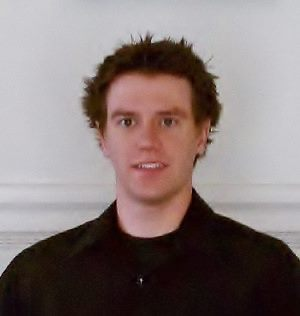
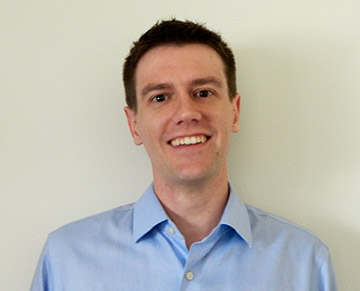
Changed picture and updated information

diff --git a/index.html b/index.html
@@ -71,7 +71,8 @@
           <div class="panel radius">
             <h3>About Me</h3>
 
-            <p>I am a fifth year graduate student at Columbia University in the <a href="http://www.apam.columbia.edu/">Applied Physics and Applied Mathematics Department</a>.  I study plasma physics related to nuclear fusion energy on the <a href="http://sites.apam.columbia.edu/HBT-EP/">High Beta Tokamak - Extended Pulse (HBT-EP)</a>.  For more information about HBT-EP and my related projects please visit the <a href="research.html">research page</a>.</p>
+            <p>I am currently a data scientist at <a href="http://www.capitalonelabs.com/">Capital One Labs</a> and I love my job.  Who knew that innovations in consumer finance could be so interesting?</p>
+            <p>I was previously a graduate student at Columbia University in the <a href="http://www.apam.columbia.edu/">Applied Physics and Applied Mathematics Department</a>.  I studied plasma physics related to nuclear fusion energy on the <a href="http://sites.apam.columbia.edu/HBT-EP/">High Beta Tokamak - Extended Pulse (HBT-EP)</a>.  For more information about HBT-EP and my related projects please visit the <a href="research.html">research page</a>.</p>
             <p>I also have a growing interest in data analysis and visualization, which stems from my research experience and is evolving through <a href="projects.html">extracurricular projects</a>.</p>
             <p>For an overview of my experience and projects please check out my <a href="resume_stoafer.pdf">resume</a>.</p>
 
@@ -84,7 +85,7 @@
             <h4>Education</h4>
             <p>
               <ul>
-                <li> Ph.D. candidate in Applied Physics, Columbia University, expected graduation May 2015 </li>
+                <li> Ph.D. candidate in Applied Physics, Columbia University, expected graduation September 2015 </li>
                 <li> M.S. Applied Physics, Columbia University, 2012 </li>
                 <li> B.S. Chemistry and Biochemistry with Minor in Physics, Cal Poly, San Luis Obispo, 2008 </li>
               </ul>

diff --git a/research.html b/research.html
@@ -50,7 +50,7 @@
       <div class="panel radius">
         <h3>Graduate Research</h3>
         <p>Advisors: <a href="http://www.columbia.edu/~mem4/">Michael Mauel</a> and <a href="http://apam.columbia.edu/gerald-navratil">Gerald Navratil</a></p>
-        <p>I am a graduate student in plasma physics and nuclear fusion, working on the High Beta Tokamak - Extended Pulse (HBT-EP) experiment at Columbia University.</p>
+        <p>I was previously a graduate student in plasma physics and nuclear fusion, working on the High Beta Tokamak - Extended Pulse (HBT-EP) experiment at Columbia University.</p>
         <p><h4><a href="resume_stoafer.pdf">Resume</a></h4></p>
         
       </div>
